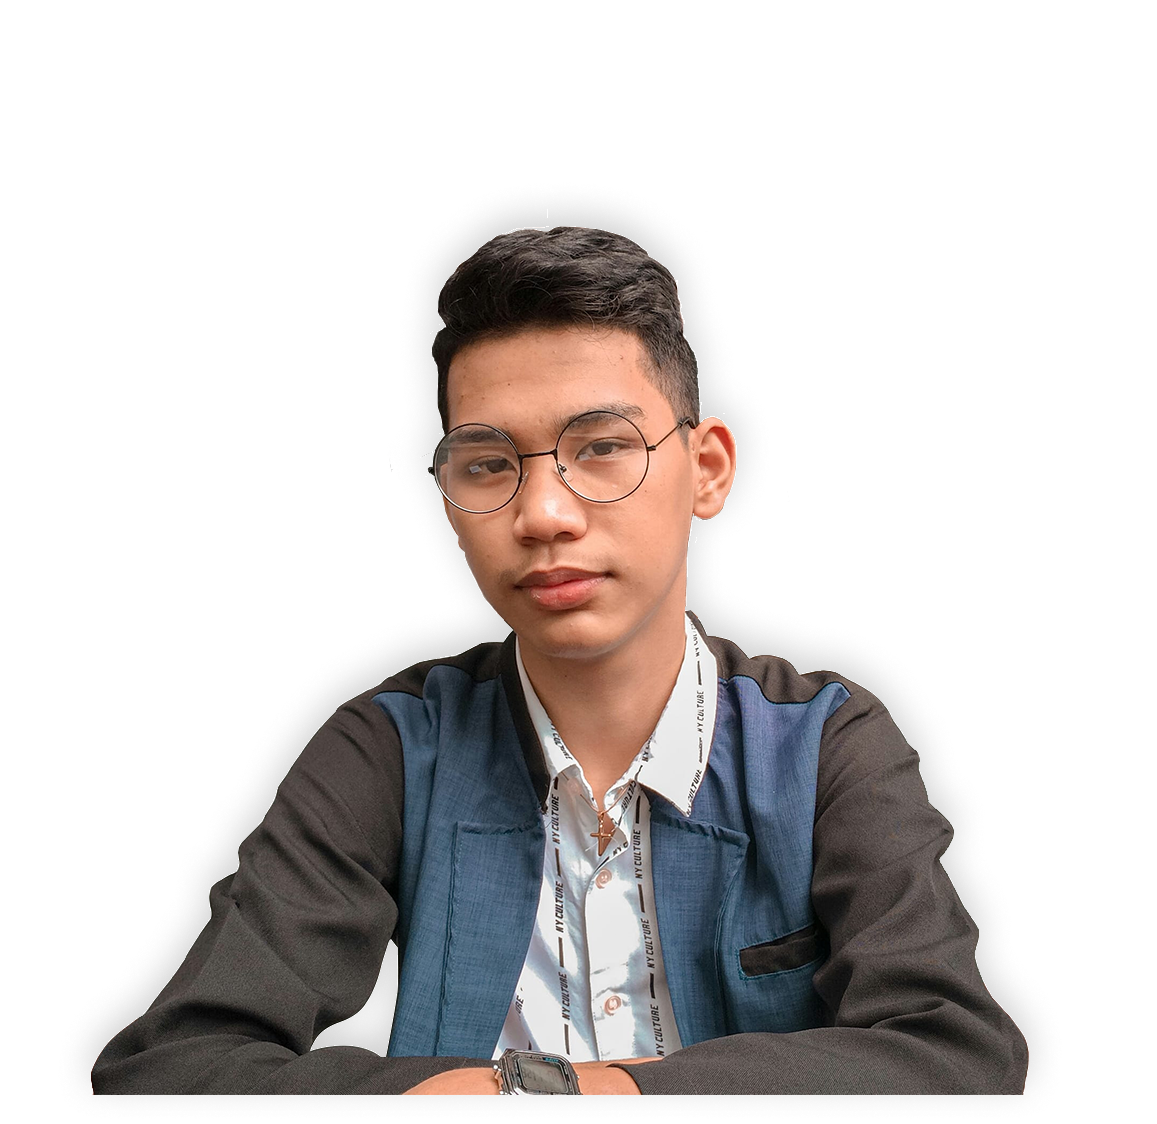
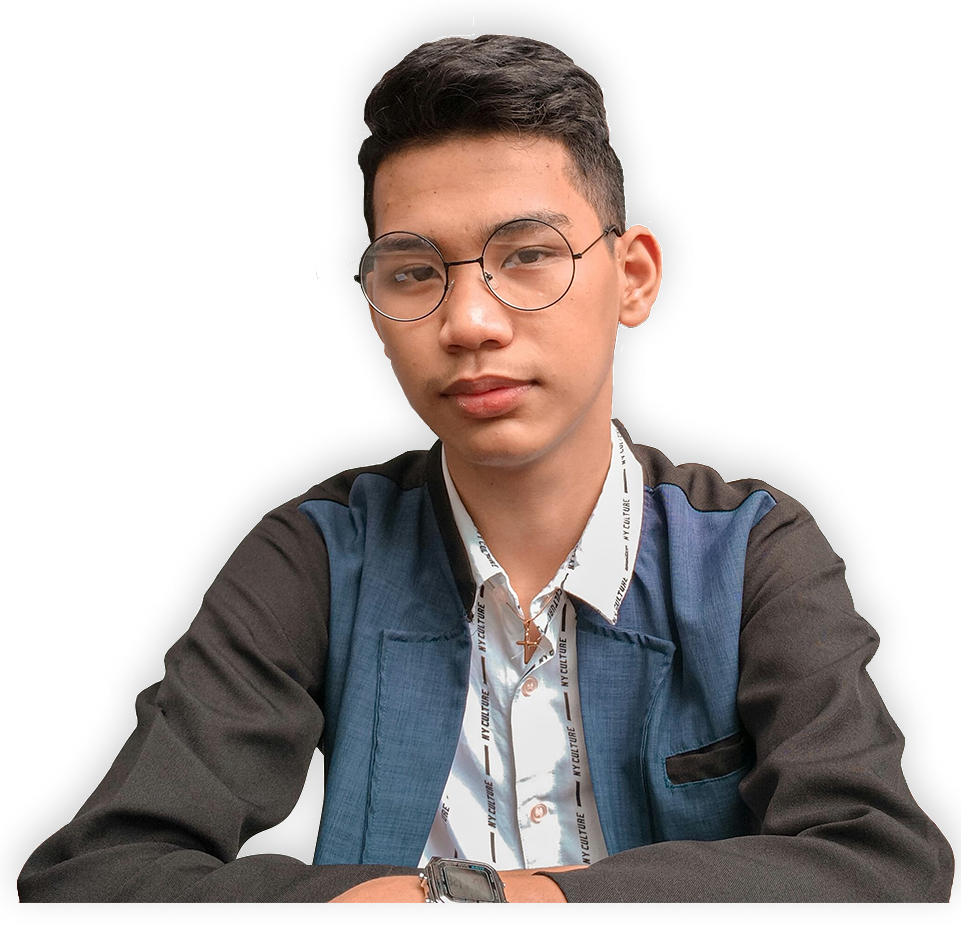
-------- add entire about page ------------

diff --git a/about.html b/about.html
@@ -21,13 +21,13 @@
     <title>About</title>
 </head>
 <body>
-    <div class="home">
+    <div class="about">
         <header class="main-header flex justify-between">
             <input type="checkbox" name="root-list" />
             <nav>
                 <ul>
                     <li>
-                        <a href="./index.html">HOME</a>
+                        <a href="./index.html">about</a>
                     </li>
                     <li>
                         <a href="./blog.html">BLOG</a>
@@ -45,12 +45,20 @@
             <img src="./images/logo.png" alt="TechBloG">
         </header>
 
-        <section class="home-cover">
-            <div class="home-cover__intro">
-
+        <section class="about-cover">
+            <div class="about-cover__intro">
+                <h1>
+                    &lt;about me&gt;
+                </h1>
+                <h2>
+                    bryan espina
+                </h2>
+                <p>
+                    I graduated from sti malolos with the course of Information technology in mobile application and web development (Itmawd). I’ am currently taking the course - bachelor of science in mathematics major in computer science in bulacan state university.
+                </p>
             </div>
-            <div class="home-cover__picture">
-
+            <div class="about-cover__picture">
+                <img src="./images/Picture.png" alt="bryan espina">
             </div>
         </section>
 

diff --git a/css/about.css b/css/about.css
@@ -1,0 +1,80 @@
+.about-cover{
+    min-height: 400px;
+
+    background-image: url(../images/about-cover.png);
+    background-size: cover;
+    background-position: top center;
+
+    display: flex;
+    flex-direction: column-reverse;
+    justify-content: center;
+    align-items: center;
+}
+
+
+
+.about-cover__intro{
+    padding: 3rem 0 1rem 3rem;
+    flex: 1;
+}
+
+.about-cover__intro h1{
+    margin: 4rem 0 .5rem;
+    font-size:2rem;
+    font-weight: 400;
+    color: var(--clr-light);
+    text-transform: uppercase;
+}
+
+.about-cover__intro h2{
+    margin: 0 0 .5rem;
+    font-size:calc(2rem + 2vw);
+    font-weight: 900;
+    color: var(--clr-secondary);
+    text-transform: uppercase;
+}
+
+.about-cover__intro p{
+    margin-top: 0;
+    line-height: 1.7;
+    color: var(--clr-light);
+    text-transform: capitalize;
+}
+
+.about-cover__intro p::first-letter{
+    margin-left:3rem;
+}
+
+/* picture */
+
+.about-cover__picture {
+    flex: 1;
+    margin-bottom: -5rem;
+}
+
+.about-cover__picture img{
+    width:100%
+}
+
+
+@media (min-width:767px){
+    .about-cover{
+        min-height:500px;
+    }
+
+    .about-cover__intro h1{
+        font-size:3rem;
+    }
+    .about-cover__intro h2{
+        font-size: calc(2.5rem + 2vw);
+    }
+    
+}
+
+@media (min-width:900px){
+    .about-cover{
+        min-height:600px;
+        flex-direction: row;
+    }
+}
+

diff --git a/index.html b/index.html
@@ -33,7 +33,7 @@
                         <a href="./blog.html">BLOG</a>
                     </li>
                     <li>
-                        <a class="disbled-link" href="#">ABOUT</a>
+                        <a href="./about.html">ABOUT</a>
                     </li>
                     <li>
                         <a href="./contacts.html">CONTENT</a>

diff --git a/blog.html b/blog.html
@@ -33,7 +33,7 @@
                         <a href="#">BLOG</a>
                     </li>
                     <li>
-                        <a class="disbled-link" href="#">ABOUT</a>
+                        <a href="./about.html">ABOUT</a>
                     </li>
                     <li>
                         <a href="./contacts.html">CONTENTS</a>

diff --git a/contacts.html b/contacts.html
@@ -32,7 +32,7 @@
                         <a href="./blog.html">BLOG</a>
                     </li>
                     <li>
-                        <a class="disbled-link" href="#">ABOUT</a>
+                        <a href="./about.html">ABOUT</a>
                     </li>
                     <li>
                         <a href="#">CONTENTS</a>

diff --git a/css/blog.css b/css/blog.css
@@ -124,3 +124,8 @@
     }
 }
 
+@media (min-width:1200px){
+    .blog-cover{
+        min-height: 600px;
+    }
+}
